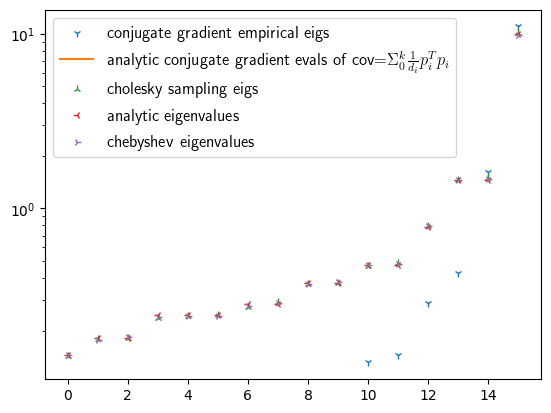
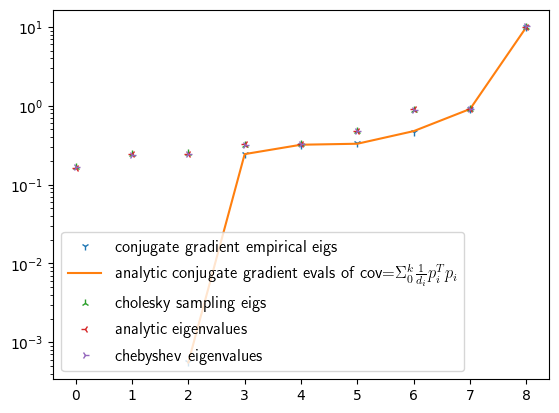
analytic eigenvalues for CG now working

diff --git a/gibbs_cheby.py b/gibbs_cheby.py
@@ -239,7 +239,8 @@ class gibbs_cheby:
         y_samples_prev = copy.copy(y_samples)
         error_prev = 1.5
         x_samples = np.zeros([sample_num,m])
-        b = [i for i in range(m)]
+        #b = [i for i in range(m)]
+        b = np.random.randn(m)
         print("shape of b is {}".format(np.shape(b)))
         #initialize residuals
         r = np.asarray([b - np.matmul(A,x_samples[i,:]) for i in range(sample_num)])
@@ -290,7 +291,10 @@ class gibbs_cheby:
                 if (i==0):
                     p_temp = np.array(p[i,:],ndmin=2).T
                     print("p is {}".format(p_temp))
-                    p_matrix = np.append(p_matrix,p_temp,axis=1)
+                    if count==0:
+                        p_matrix = p_temp
+                    else:
+                        p_matrix = np.append(p_matrix,p_temp,axis=1)
                     d_vector = np.append(d_vector,d[0])
                     print("d vector is {}".format(d_vector))
                     print("d[0] is {}".format(d[0]))
